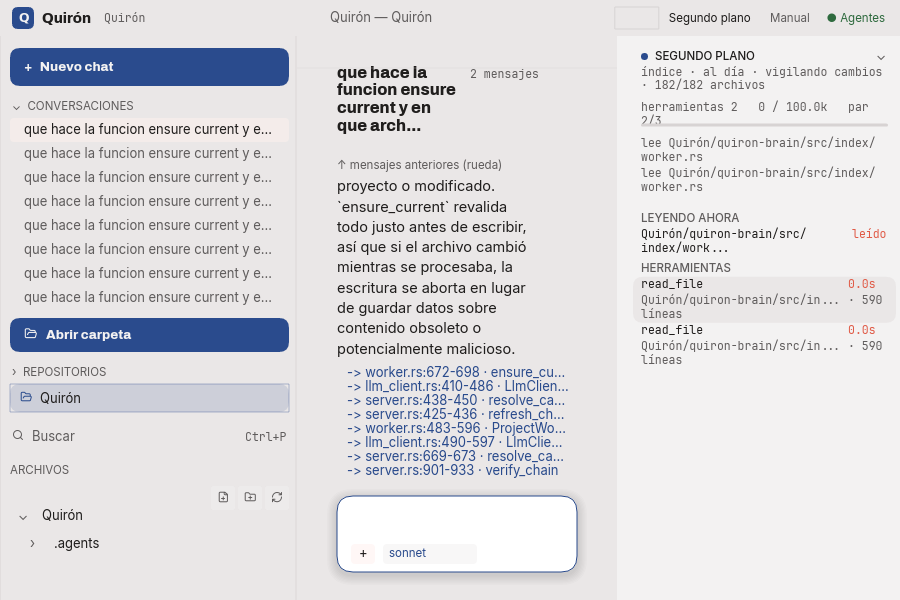
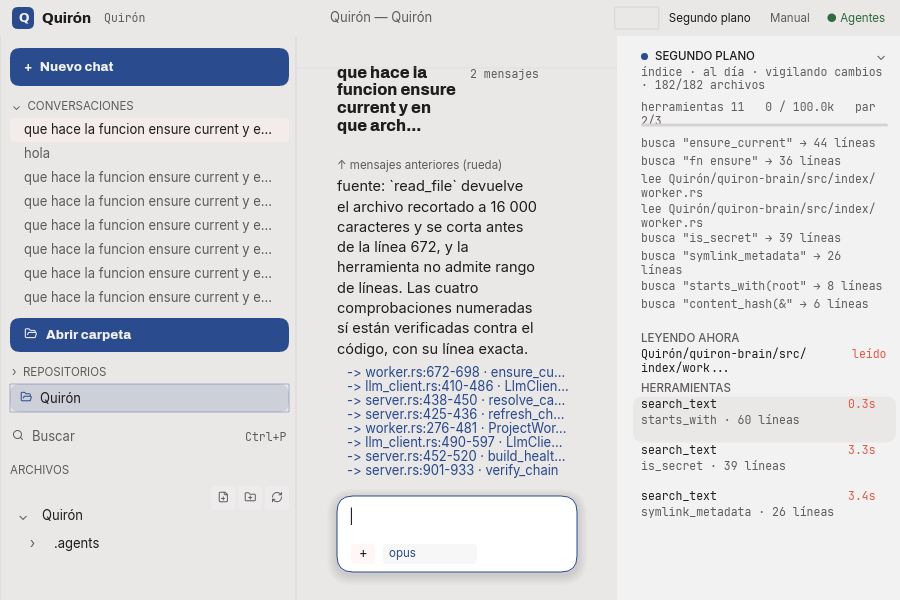
Chat directo: sin saludo ni etiqueta, holograma pequeño mientras piensa y Segundo plano en vivo
- Prompt de sistema: «Eres Quirón, el chat del proyecto»; contesta sin
  saludos, sin presentarse y sin repetir el contexto (el modelo lo parroteaba).
- Fuera la etiqueta «QUIRÓN» de las respuestas.
- Mientras piensa: holograma de 72 px girando donde saldrá la respuesta, con
  la última acción al lado; bucle de espera a 33 ms.
- Segundo plano, sección AHORA: la tarea del chat escribe lo que hace
  (consulta del índice, pregunta al modelo, cada mano con su resultado,
  vuelta al modelo); al terminar vuelve la lista de manos usadas.
- Arnés --ask: captura del estado «pensando».

diff --git a/Quirón/llore_editor/crates/llore_ui/src/app.rs b/Quirón/llore_editor/crates/llore_ui/src/app.rs
@@ -2164,6 +2164,10 @@ pub struct AppState {
     /// El chat en curso, fuera del hilo de la interfaz; cuándo empezó.
     chat_task: Option<JoinHandle<ChatTaskResult>>,
     chat_started: Option<Instant>,
+    /// Lo que el chat está haciendo ahora mismo, línea a línea, escrito desde
+    /// la tarea (consulta del índice, espera del modelo, cada mano). Se enseña
+    /// en Segundo plano mientras piensa y se vacía al terminar.
+    pub chat_activity: Arc<std::sync::Mutex<Vec<String>>>,
     /// Cursor del campo del chat: fase del parpadeo y último texto visto.
     pub caret_on: bool,
     caret_epoch: Instant,
@@ -2473,8 +2477,11 @@ impl AppState {
             .unwrap_or("sin nombre");
 
         format!(
-            "Eres el asistente de Llore, un editor de código. Trabajas sobre el \
-             proyecto «{proyecto}».\n\n\
+            "Eres Quirón, el chat del proyecto «{proyecto}». Contesta a lo que se \
+             pregunta, directamente: sin saludos, sin presentarte y sin repetir \
+             el contexto que recibes (raíz, archivo abierto, pestañas), que el \
+             usuario ya ve en pantalla. Si el mensaje es solo un saludo, responde \
+             en una línea y pregunta qué necesita.\n\n\
              Recibes como contexto el archivo que el usuario tiene abierto y su \
              selección si la hay. Además tienes manos: las herramientas \
              read_file (leer un archivo por su ruta relativa a la raíz), \
@@ -2712,6 +2719,7 @@ impl AppState {
             loading: false,
             chat_task: None,
             chat_started: None,
+            chat_activity: Arc::new(std::sync::Mutex::new(Vec::new())),
             caret_on: true,
             caret_epoch: Instant::now(),
             caret_last_text: String::new(),
@@ -11416,6 +11424,13 @@ impl AppState {
         // la interfaz: la ventana sigue viva mientras el modelo piensa y usa
         // las manos, y el resultado se recoge en `poll_chat_task`.
         self.chat_started = Some(Instant::now());
+        let actividad = self.chat_activity.clone();
+        if let Ok(mut lineas) = actividad.lock() {
+            lineas.clear();
+            lineas.push("consulta el índice: vectores y grafo del proyecto".to_string());
+            lineas.push(format!("pregunta al modelo ({model})"));
+        }
+        let modelo_para_actividad = model.clone();
         self.chat_task = Some(self.runtime.spawn(async move {
             let mut corridas: Vec<ToolRun> = Vec::new();
             let q = quiron.lock().await;
@@ -11445,10 +11460,28 @@ impl AppState {
                         .find_map(|k| input.get(*k).and_then(|v| v.as_str()))
                         .unwrap_or("")
                         .to_string();
+                    let que_hace = match name {
+                        "read_file" => format!("lee {arg}"),
+                        "search_text" => format!("busca «{arg}»"),
+                        "list_files" => format!("lista {}", if arg.is_empty() { "." } else { arg.as_str() }),
+                        otro => format!("{otro} {arg}"),
+                    };
+                    if let Ok(mut lineas) = actividad.lock() {
+                        lineas.push(format!("{que_hace}…"));
+                    }
                     let t0 = Instant::now();
                     let outcome = chat_tools::execute(&ctx, name, input);
                     let took = t0.elapsed();
                     let lineas = outcome.content.lines().count();
+                    if let Ok(mut vivas) = actividad.lock() {
+                        vivas.pop();
+                        vivas.push(if outcome.is_error {
+                            format!("✗ {que_hace}: {}", outcome.content.lines().next().unwrap_or("denegado"))
+                        } else {
+                            format!("{que_hace} → {lineas} línea{}", if lineas == 1 { "" } else { "s" })
+                        });
+                        vivas.push(format!("vuelve al modelo ({modelo_para_actividad}) con el resultado"));
+                    }
                     let summary = if outcome.is_error {
                         outcome
                             .content
@@ -11519,6 +11552,16 @@ impl AppState {
         false
     }
 
+    /// Segundos que lleva pensando la respuesta en curso.
+    pub fn thinking_secs(&self) -> f32 {
+        self.chat_started.map(|t| t.elapsed().as_secs_f32()).unwrap_or(0.0)
+    }
+
+    /// Copia de lo que el chat hace ahora mismo (vacío si no piensa).
+    pub fn chat_activity_lines(&self) -> Vec<String> {
+        self.chat_activity.lock().map(|l| l.clone()).unwrap_or_default()
+    }
+
     fn finish_chat(
         &mut self,
         result: Result<llore_brain::ChatOutcome, llore_brain::client::ClientError>,
@@ -11526,6 +11569,9 @@ impl AppState {
         corridas: Vec<ToolRun>,
         pensado: Duration,
     ) {
+        if let Ok(mut lineas) = self.chat_activity.lock() {
+            lineas.clear();
+        }
         self.last_thought_secs = pensado.as_secs_f32();
         self.last_tool_runs = corridas;
         self.background_snapshot = Some(BackgroundSnapshot {
@@ -12404,7 +12450,9 @@ where
     fn about_to_wait(&mut self, event_loop: &ActiveEventLoop) {
         // Progreso y monitores deben avanzar aunque no se mueva el ratón. Con
         // la bienvenida a la vista, el holograma se anima: fotograma cada 33 ms.
-        let animando = self.state.welcome_visible();
+        // Con la bienvenida o una respuesta en curso el holograma gira:
+        // fotograma cada 33 ms; el resto del tiempo, 250 ms.
+        let animando = self.state.welcome_visible() || self.state.loading;
         let intervalo = if animando { 33 } else { 250 };
         event_loop.set_control_flow(ControlFlow::WaitUntil(
             Instant::now() + Duration::from_millis(intervalo),

diff --git a/Quirón/llore_editor/crates/llore_ui/src/bin/llore_gui.rs b/Quirón/llore_editor/crates/llore_ui/src/bin/llore_gui.rs
@@ -2001,8 +2001,11 @@ fn render_app(window: &mut Window, state: &mut AppState) {
     if state.chat_scroll > state.chat_scroll_max {
         state.chat_scroll = state.chat_scroll_max;
     }
+    // Mientras piensa, el holograma pequeño gira donde va a salir la
+    // respuesta; los mensajes se apilan por encima de él.
+    let hueco_pensando = if state.loading { 96.0 } else { 0.0 };
     let mut placements: Vec<(usize, f32)> = Vec::new();
-    let mut cursor_y = msg_limit_y + state.chat_scroll;
+    let mut cursor_y = msg_limit_y + state.chat_scroll - hueco_pensando;
     for (index, (_, _, _, block_h)) in measured.iter().enumerate().rev() {
         let top = cursor_y - block_h;
         if cursor_y <= messages_start_y {
@@ -2036,6 +2039,30 @@ fn render_app(window: &mut Window, state: &mut AppState) {
         );
     }
     let visible = |base: f32| base >= banda_top && base <= msg_limit_y;
+
+    if state.loading {
+        let lado = 72.0;
+        let cx = msg_card_x + lado * 0.5 + 6.0;
+        let cy = msg_limit_y - hueco_pensando * 0.5;
+        draw_brain_hologram(
+            canvas,
+            cx,
+            cy,
+            lado,
+            state.thinking_secs(),
+            (0.0, 0.0),
+            None,
+            Color::from_hex(palette.accent),
+            Color::from_hex(palette.text_muted),
+        );
+        let ultima = state.chat_activity_lines().last().cloned().unwrap_or_else(|| "pensando".to_string());
+        let buf = state.text_system.create_line_buffer(
+            &truncate_chars(&ultima, 60),
+            design::type_scale::XS,
+            msg_card_w - lado - 20.0,
+        );
+        state.text_system.draw_buffer(canvas, &buf, cx + lado * 0.5 + 12.0, cy + 4.0, Color::from_hex(palette.text_muted));
+    }
 
     for (index, msg_y) in placements {
         let (msg, text, text_h, block_h) = &measured[index];
@@ -2103,15 +2130,11 @@ fn render_app(window: &mut Window, state: &mut AppState) {
 
         let card_bounds = Bounds::new(msg_card_x, msg_y, msg_card_w, block_h);
 
-        // Etiqueta de rol encima, en mayúsculas, apagada — la maqueta no usa
-        // iconos redondos ni tarjetas con fondo para cada mensaje.
-        let etiqueta_buf = state.text_system.create_label_buffer(
-            if msg.is_user { "TÚ" } else { "QUIRÓN" },
-            design::type_scale::XS,
-            120.0,
-        );
+        // Etiqueta de rol solo para el usuario; la respuesta no la necesita:
+        // Quirón es el programa, no un interlocutor que se presenta.
+        let etiqueta_buf = state.text_system.create_label_buffer("TÚ", design::type_scale::XS, 120.0);
         let etiqueta_base = card_bounds.y + design::type_scale::XS;
-        if visible(etiqueta_base) {
+        if msg.is_user && visible(etiqueta_base) {
             state.text_system.draw_buffer(
                 canvas,
                 &etiqueta_buf,
@@ -2468,6 +2491,7 @@ fn render_app(window: &mut Window, state: &mut AppState) {
                     0.0
                 },
             ),
+            None if state.loading => ("chat · pensando".to_string(), 0.0),
             None => ("chat · sin llamadas".to_string(), 0.0),
         };
         let stats_buf = state
@@ -2492,7 +2516,31 @@ fn render_app(window: &mut Window, state: &mut AppState) {
         }
         y += design::space::XL;
 
-        if state.last_tool_runs.is_empty() {
+        if state.loading {
+            // En vivo: lo que hace ahora mismo, la última línea encendida.
+            let rotulo = state.text_system.create_label_buffer("AHORA", design::type_scale::XS, fw);
+            state.text_system.draw_buffer(canvas, &rotulo, fx, y, Color::from_hex(palette.text_muted));
+            y += design::space::LG;
+            let lineas = state.chat_activity_lines();
+            let n = lineas.len();
+            for (i, linea) in lineas.iter().enumerate().skip(n.saturating_sub(9)) {
+                if y > tope {
+                    break;
+                }
+                let texto = truncate_chars(linea, 70);
+                let (_, alto) = state.text_system.measure_code(&texto, design::type_scale::XS, fw);
+                let buf = state.text_system.create_code_buffer(&texto, design::type_scale::XS, fw);
+                let color = if i + 1 == n {
+                    Color::from_hex(palette.accent)
+                } else if linea.starts_with('✗') {
+                    Color::from_hex(palette.error)
+                } else {
+                    Color::from_hex(palette.text_muted)
+                };
+                state.text_system.draw_buffer(canvas, &buf, fx, y, color);
+                y += paso.max(alto + 2.0);
+            }
+        } else if state.last_tool_runs.is_empty() {
             // Sin manos usadas no se enseña nada: el vacío ya lo dice.
         } else {
             // Flujo: una línea por herramienta, en el orden en que ocurrieron.

diff --git a/scripts/smoke-gui-x11.py b/scripts/smoke-gui-x11.py
@@ -163,6 +163,7 @@ def ask_round(question):
     # editor guarde la respuesta en el hilo de esta ronda y capturar.
     inicio_epoch=arranque_epoch-5
     t0=time.monotonic()
+    time.sleep(6); step_shot('2-pensando')
     while time.monotonic()-t0<300:
         if respuesta_guardada(question, inicio_epoch):
             time.sleep(0.5); key('Shift_L'); time.sleep(1); step_shot('3-respuesta')

diff --git a/docs/CIERRE_2026-09-05.md b/docs/CIERRE_2026-09-05.md
@@ -820,3 +820,32 @@ detesto los mensajes ya preprogramados».
   pregunta desde dentro (`QUIRON_UI_ASK`) cuando el teclado del compositor lo
   retiene otra capa (LAN Mouse con el ratón en el otro equipo).
 
+## Sin saludos, sin etiqueta, y se ve lo que hace mientras piensa (6 de septiembre)
+
+El autor enseñó una respuesta que empezaba «Hola. Soy el asistente de Llore
+trabajando sobre el proyecto «Quirón» (raíz …). Ahora mismo tienes abierto…»:
+«ese mensaje estándar no me gusta, y lo de QUIRÓN sobra, Quirón es el nombre
+del programa… tendría que salir la imagen 3D del vector girando en pequeñito
+como que está pensando y en la barra de segundo plano lo que piensas y miras».
+
+- **El saludo venía del prompt de sistema** («Eres el asistente de Llore… recibes
+  el archivo abierto…»): el modelo lo repetía. Ahora: «Eres Quirón, el chat del
+  proyecto. Contesta a lo que se pregunta, directamente: sin saludos, sin
+  presentarte y sin repetir el contexto que recibes, que el usuario ya ve en
+  pantalla». Verificado en la ronda siguiente: la respuesta empieza por el
+  contenido.
+- **Etiqueta «QUIRÓN» fuera** de las respuestas; solo queda «TÚ» en las
+  preguntas, que ya van en burbuja.
+- **Holograma pequeño mientras piensa**: el cerebro vectorial de la bienvenida,
+  a 72 px, gira donde va a salir la respuesta, con la última acción al lado
+  («busca «ensure_current»…», «vuelve al modelo (opus) con el resultado»). El
+  bucle de espera pasa a 33 ms mientras hay respuesta en curso.
+- **Segundo plano en vivo**: mientras piensa, la sección AHORA lista lo que
+  hace, escrito desde la propia tarea del chat: consulta el índice (vectores y
+  grafo), pregunta al modelo, cada mano con su resultado («lee X → 590
+  líneas», «busca «fn ensure» → 36 líneas», denegaciones en rojo) y la vuelta
+  al modelo. Al terminar, el panel vuelve a la lista de manos usadas. Si algún
+  día hay una mano de shell, sale por el mismo camino con su nombre.
+- Capturas: `evidencias/2026-09-05/gui-chat-fluido/paso-2-pensando.png`
+  (pensando) y `gui-chat.png` (respuesta).
+
